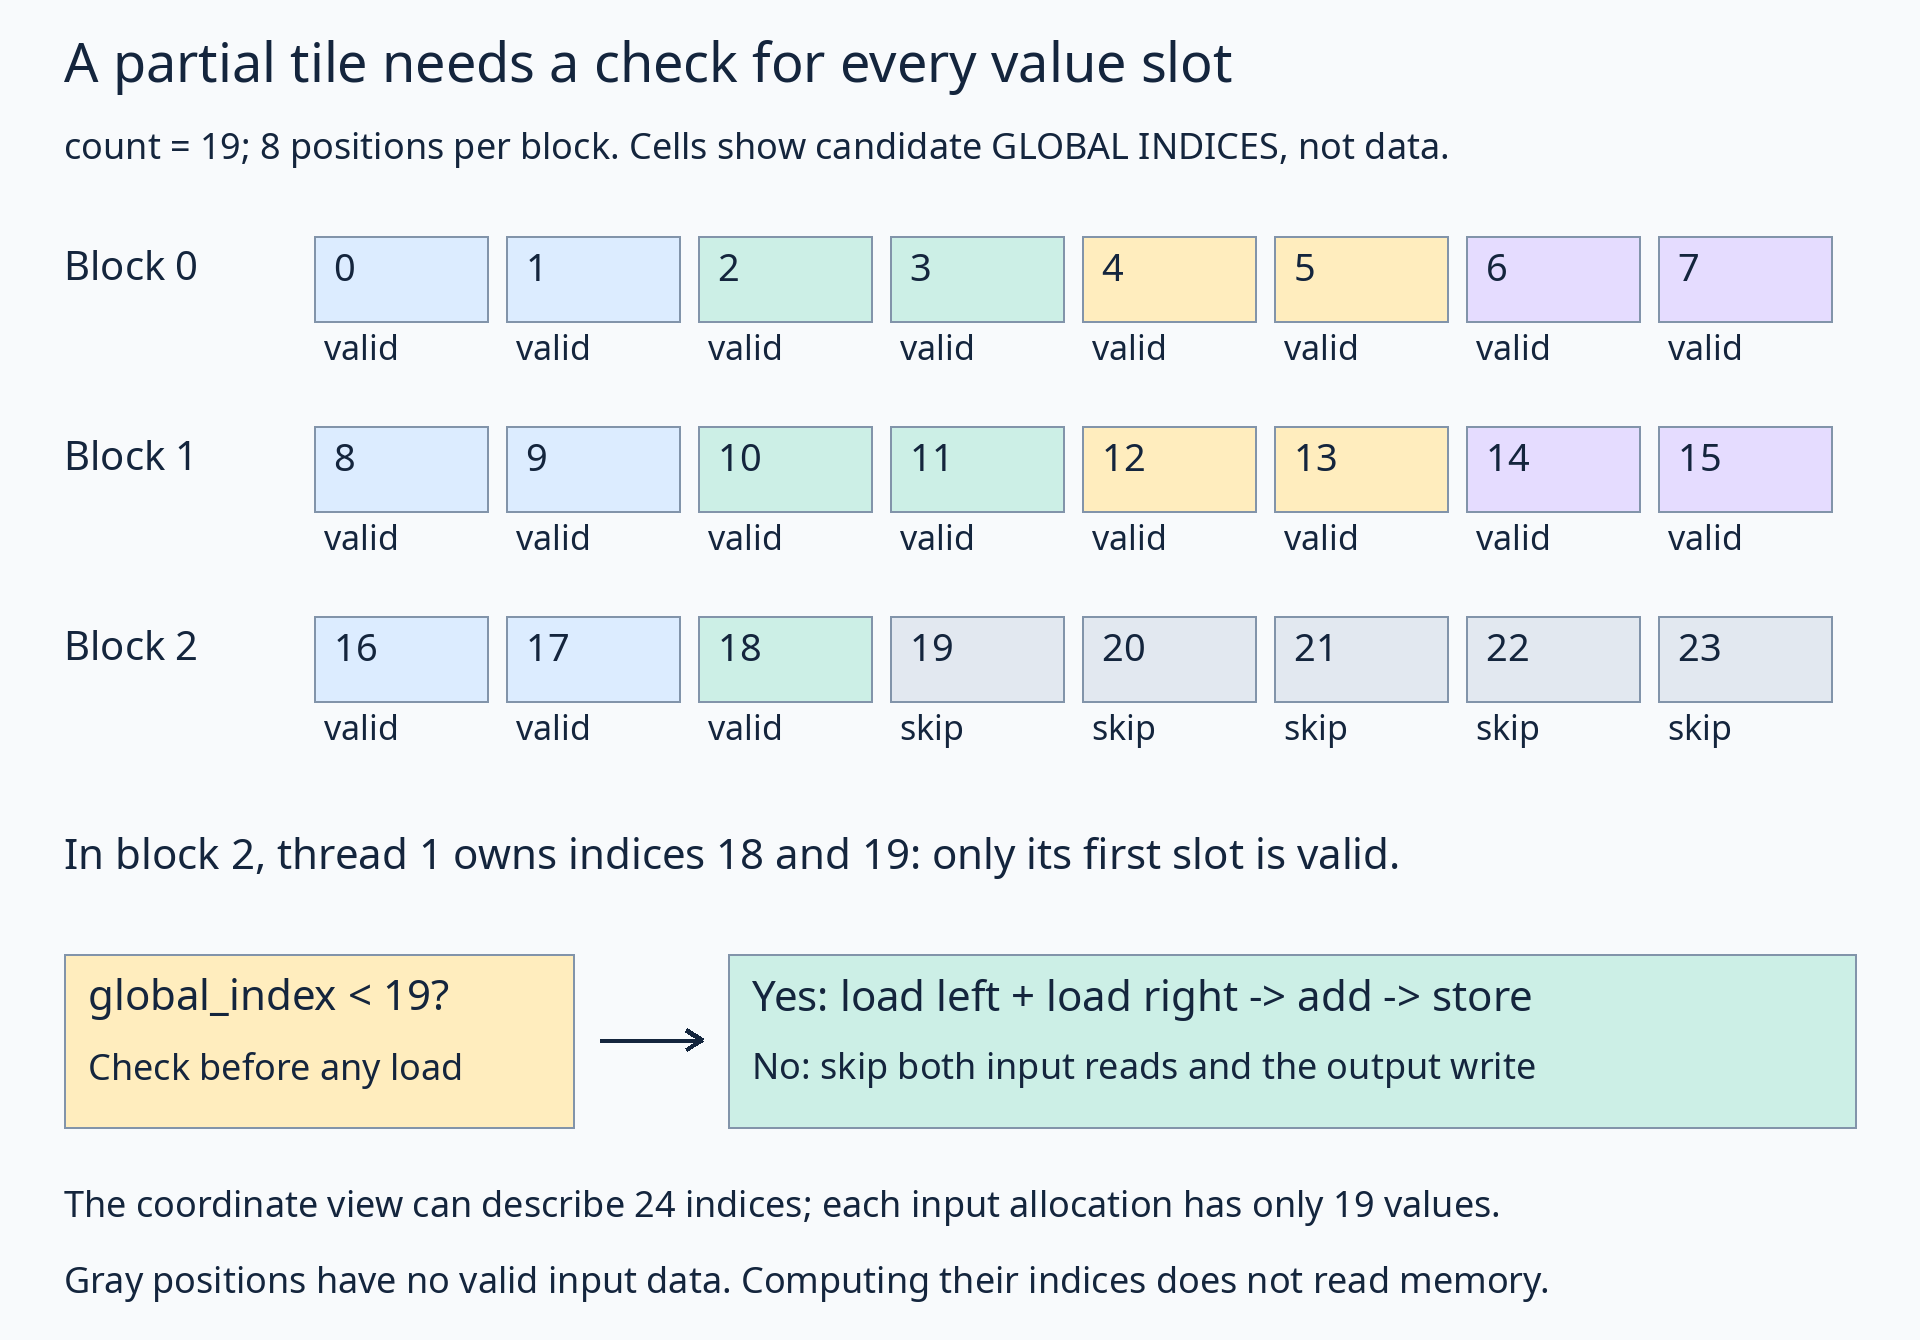
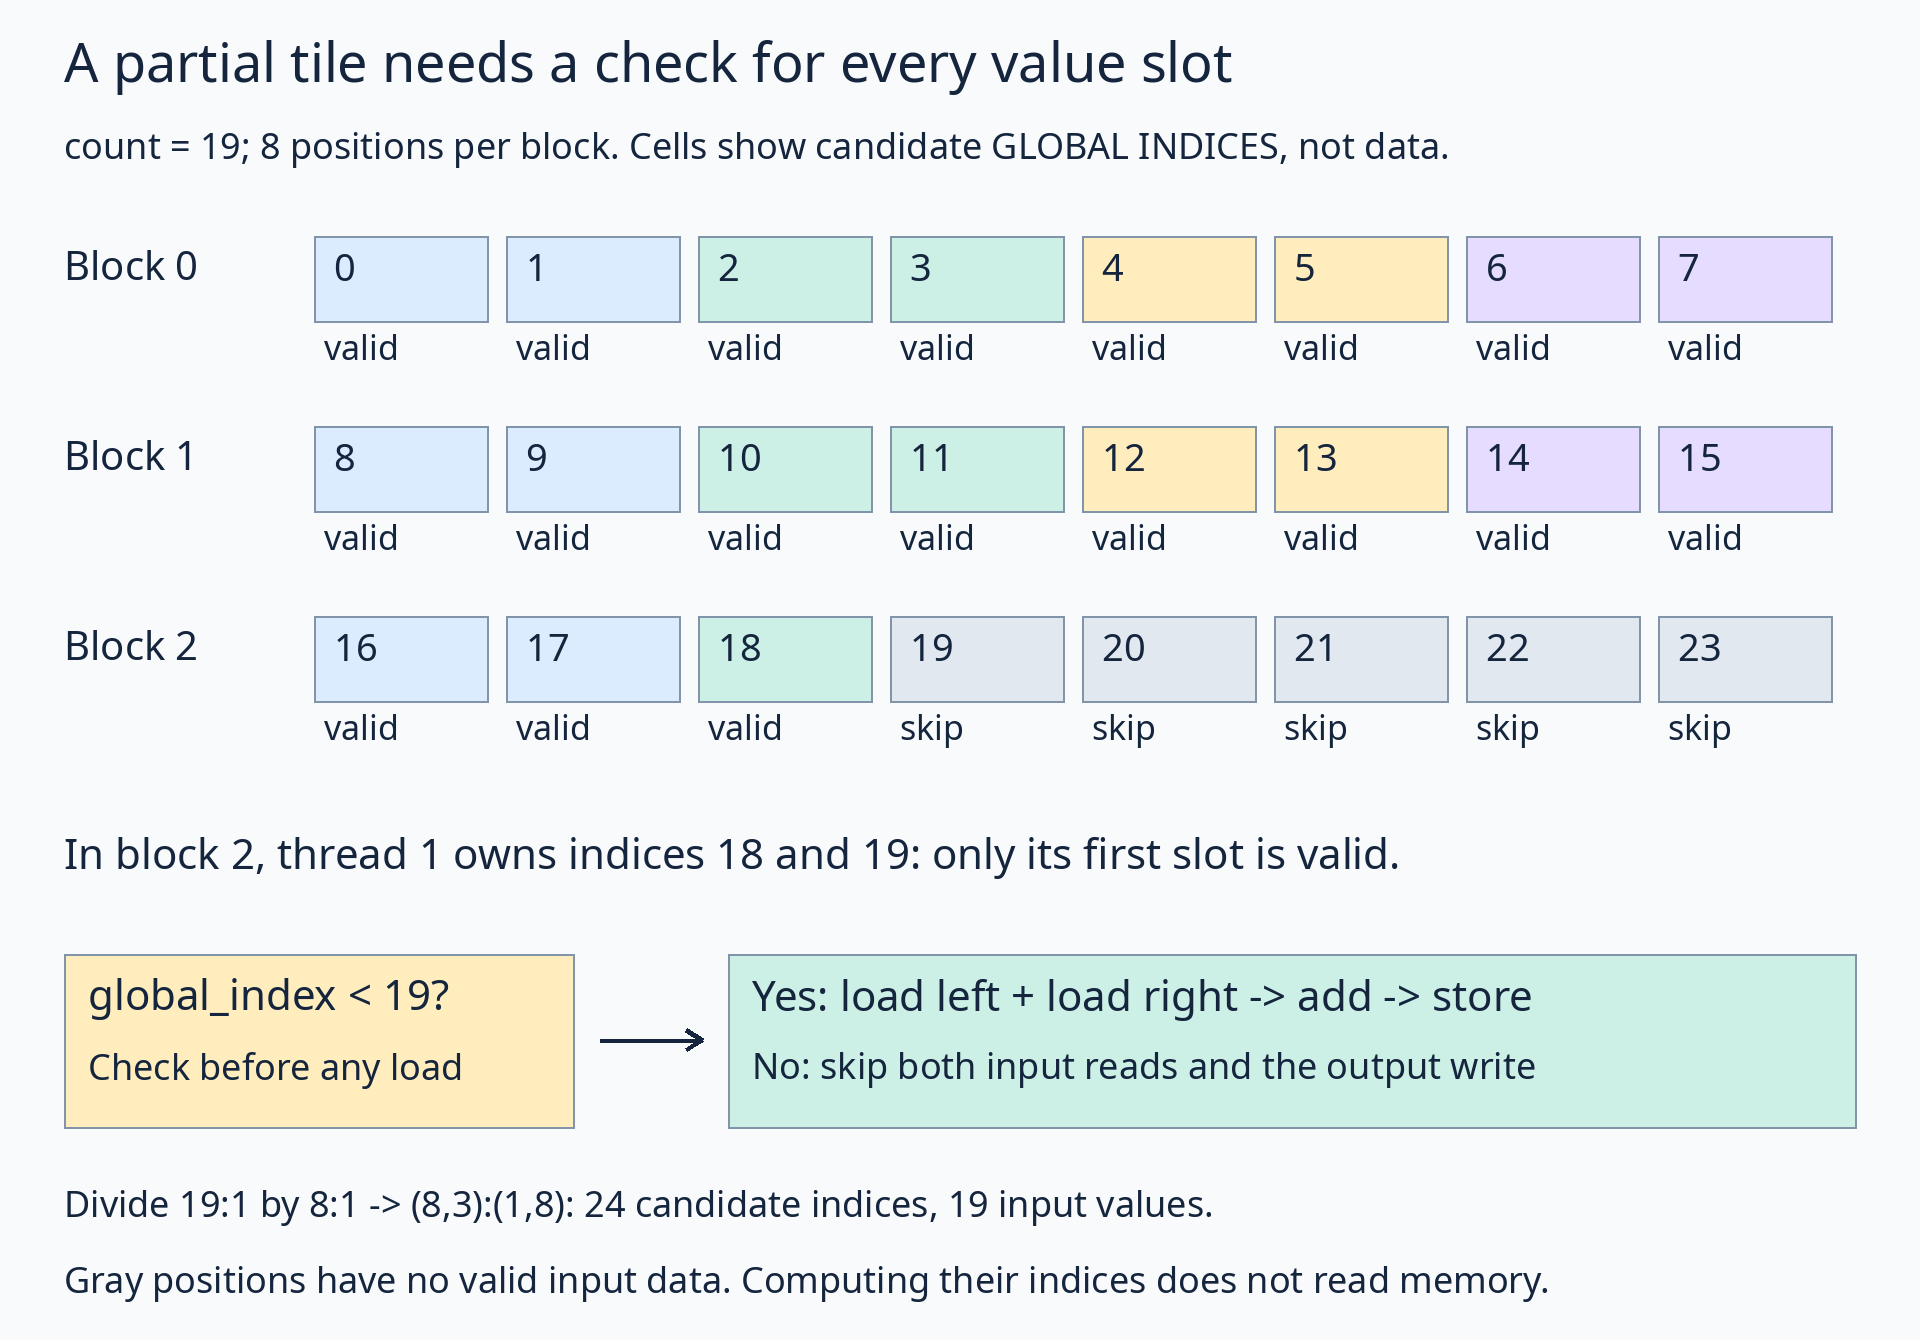
Simplify tail lesson with native FlyDSL tile division

Changed region(s): [[0.0312, 0.8873, 0.7812, 0.9179]]

diff --git a/lessons/01-gpu-programming/10-predicates-and-tails/practice.py b/lessons/01-gpu-programming/10-predicates-and-tails/practice.py
@@ -11,12 +11,11 @@ from flydsl._mlir.dialects import scf
 def exercise_kernel(
     left: fx.Tensor, right: fx.Tensor, out: fx.Tensor, count: fx.Constexpr
 ):
-    padded_count = ((count + 7) // 8) * 8
     # 1. Reuse left/right/out as memory views. Build a separate index-only view.
-    coordinate_layout = fx.make_layout(padded_count, 1)
+    coordinate_layout = fx.make_layout(count, 1)
     index_origin = fx.make_int_tuple(0)
     coordinates = fx.make_view(index_origin, coordinate_layout)
-    # 2. Expose coordinate windows and select this block's window.
+    # 2. Division rounds up to full coordinate windows; no data is padded.
     block_id = fx.block_idx.x
     coordinate_tiles = fx.logical_divide(coordinates, fx.make_layout(8, 1))
     block_coordinates = fx.slice(coordinate_tiles, (None, block_id))
@@ -43,21 +42,21 @@ def exercise_kernel(
 @flyc.jit
 def run(left: fx.Tensor, right: fx.Tensor, out: fx.Tensor, count: fx.Constexpr):
     exercise_kernel(left, right, out, count).launch(
-        grid=((count + 7) // 8, 1, 1), block=(4, 1, 1)
+        grid=(fx.ceildiv(count, 8), 1, 1), block=(4, 1, 1)
     )
 
 
 def solve():
-    for count in [19]:
-        left = torch.arange(count, dtype=torch.float32, device="cuda") * 0.25
-        right = torch.arange(count, dtype=torch.float32, device="cuda") * -0.5 + 3
-        # Inputs are exact-sized. Extra output storage checks for stray writes.
-        out = torch.full((count + 8,), -999.0, dtype=torch.float32, device="cuda")
-        run(left, right, out, count)
-        torch.cuda.synchronize()
-        torch.testing.assert_close(out[:count], left + right)
-        assert torch.all(out[count:] == -999).item(), "Wrote beyond the logical output"
-    return "passed sizes " + str([19])
+    count = 19
+    left = torch.arange(count, dtype=torch.float32, device="cuda") * 0.25
+    right = torch.arange(count, dtype=torch.float32, device="cuda") * -0.5 + 3
+    # Inputs are exact-sized. Extra output storage checks for stray writes.
+    out = torch.full((count + 8,), -999.0, dtype=torch.float32, device="cuda")
+    run(left, right, out, count)
+    torch.cuda.synchronize()
+    torch.testing.assert_close(out[:count], left + right)
+    assert torch.all(out[count:] == -999).item(), "Wrote beyond the logical output"
+    return "19 sums checked; 8 output sentinels unchanged"
 
 
 if __name__ == "__main__":

diff --git a/lessons/01-gpu-programming/10-predicates-and-tails/solution.py b/lessons/01-gpu-programming/10-predicates-and-tails/solution.py
@@ -11,12 +11,11 @@ from flydsl._mlir.dialects import scf
 def exercise_kernel(
     left: fx.Tensor, right: fx.Tensor, out: fx.Tensor, count: fx.Constexpr
 ):
-    padded_count = ((count + 7) // 8) * 8
     # 1. Reuse left/right/out as memory views. Build a separate index-only view.
-    coordinate_layout = fx.make_layout(padded_count, 1)
+    coordinate_layout = fx.make_layout(count, 1)
     index_origin = fx.make_int_tuple(0)
     coordinates = fx.make_view(index_origin, coordinate_layout)
-    # 2. Expose coordinate windows and select this block's window.
+    # 2. Division rounds up to full coordinate windows; no data is padded.
     block_id = fx.block_idx.x
     coordinate_tiles = fx.logical_divide(coordinates, fx.make_layout(8, 1))
     block_coordinates = fx.slice(coordinate_tiles, (None, block_id))
@@ -40,21 +39,21 @@ def exercise_kernel(
 @flyc.jit
 def run(left: fx.Tensor, right: fx.Tensor, out: fx.Tensor, count: fx.Constexpr):
     exercise_kernel(left, right, out, count).launch(
-        grid=((count + 7) // 8, 1, 1), block=(4, 1, 1)
+        grid=(fx.ceildiv(count, 8), 1, 1), block=(4, 1, 1)
     )
 
 
 def solve():
-    for count in [19]:
-        left = torch.arange(count, dtype=torch.float32, device="cuda") * 0.25
-        right = torch.arange(count, dtype=torch.float32, device="cuda") * -0.5 + 3
-        # Inputs are exact-sized. Extra output storage checks for stray writes.
-        out = torch.full((count + 8,), -999.0, dtype=torch.float32, device="cuda")
-        run(left, right, out, count)
-        torch.cuda.synchronize()
-        torch.testing.assert_close(out[:count], left + right)
-        assert torch.all(out[count:] == -999).item(), "Wrote beyond the logical output"
-    return "passed sizes " + str([19])
+    count = 19
+    left = torch.arange(count, dtype=torch.float32, device="cuda") * 0.25
+    right = torch.arange(count, dtype=torch.float32, device="cuda") * -0.5 + 3
+    # Inputs are exact-sized. Extra output storage checks for stray writes.
+    out = torch.full((count + 8,), -999.0, dtype=torch.float32, device="cuda")
+    run(left, right, out, count)
+    torch.cuda.synchronize()
+    torch.testing.assert_close(out[:count], left + right)
+    assert torch.all(out[count:] == -999).item(), "Wrote beyond the logical output"
+    return "19 sums checked; 8 output sentinels unchanged"
 
 
 if __name__ == "__main__":

diff --git a/tools/draw_lesson_visuals.py b/tools/draw_lesson_visuals.py
@@ -277,7 +277,7 @@ def tails():
     d.text(
         32,
         595,
-        "The coordinate view can describe 24 indices; each input allocation has only 19 values.",
+        "Divide 19:1 by 8:1 -> (8,3):(1,8): 24 candidate indices, 19 input values.",
         18,
     )
     d.text(

diff --git a/lessons/01-gpu-programming/10-predicates-and-tails/README.md b/lessons/01-gpu-programming/10-predicates-and-tails/README.md
@@ -14,19 +14,29 @@ The last row makes the boundary visible: thread 1 straddles it, so check each va
 4. Check whether each global index is valid.
 5. Inside that bounds branch, load the two input values, add them, and store the result.
 
-The coordinate view is only for deriving indices. Its padded shape does **not** enlarge either input allocation. Real reads and writes use the original memory views after the predicate succeeds. This avoids creating padded data views that could look safe to read unconditionally.
+The coordinate view is only for deriving indices. Start with the actual count of 19; division creates enough complete coordinate windows to cover it. This does **not** enlarge either input allocation. Real reads and writes use the original memory views after the predicate succeeds.
 
 ## Coordinates can be a tensor without an allocation
 
 ```python
-coordinate_layout = fx.make_layout(24, 1)
+coordinate_layout = fx.make_layout(count, 1)  # count = 19
 index_origin = fx.make_int_tuple(0)
 coordinates = fx.make_view(index_origin, coordinate_layout)
 coordinate_tiles = fx.logical_divide(coordinates, fx.make_layout(8, 1))
 block_coordinates = fx.slice(coordinate_tiles, (None, block_id))
 ```
 
-`coordinate_layout` describes indexing. `index_origin` is an integer iterator, not a memory pointer: it starts at zero. Indexing this coordinate view produces an index, rather than loading a float from memory. Its padded domain covers the launch: 24 positions. This makes it possible to ask which positions are valid without accessing either input allocation.
+`coordinate_layout` describes indexing. `index_origin` is an integer iterator, not a memory pointer: it starts at zero. Indexing this coordinate view produces an index, rather than loading a float from memory.
+
+For this contiguous 1-D layout, `logical_divide` rounds up the number of windows. Dividing `19:1` by `8:1` produces `(8,3):(1,8)`: eight local positions in each of three windows. The last window therefore describes candidate indices 16 through 23, while only 16 through 18 belong to the inputs. The extra positions come from the divided coordinate layout; there is no padded input buffer or separate `padded_count` calculation.
+
+The launcher uses native ceiling division to launch those three blocks:
+
+```python
+grid=(fx.ceildiv(count, 8), 1, 1), block=(4, 1, 1)
+```
+
+Ceiling division answers “how many blocks cover 19 elements?” The per-value predicate answers “which positions in those blocks contain data?”
 
 Use ownership `(4,2):(2,1)` to get each thread's local positions, then index `block_coordinates` to obtain their global indices.
 
@@ -57,7 +67,7 @@ Do not load first and only guard the store. An output allocation with spare capa
 
 ## Practice
 
-Fill `valid` with the bound comparison. Keep all memory accesses inside the supplied branch. The checker uses exact-sized input arrays and eight sentinel output elements after the logical result. It checks the 19 sums and verifies the sentinels are unchanged.
+Fill `valid` with the bound comparison. Keep all memory accesses inside the supplied branch. `solve()` runs one case, `count = 19`, using exact-sized input arrays and eight sentinel output elements after the logical result. It checks all 19 sums and verifies the sentinels are unchanged. The checkpoint is `19 sums checked; 8 output sentinels unchanged`.
 
 Sentinels detect invalid writes; they do not prove the absence of every invalid read. The code structure supplies that guarantee here: both loads are inside the same bounds branch. All valid positions have exactly one owner under the thread/value layout.
 
@@ -81,5 +91,7 @@ pixi run python lessons/01-gpu-programming/10-predicates-and-tails/solution.py
 ```
 
 In the starter exercise, an incomplete expression raises `Practice not finished` during tracing. Complete the TODOs, run the checker, then compare the [worked solution](solution.py). The supplied launch and checker define the example: the kernel performs the GPU work, while the host prepares buffers and validates the result.
+
+References: [FlyDSL divide operations](https://rocm.docs.amd.com/projects/FlyDSL/en/latest/layout_system_guide.html#divide-operations) and [native arithmetic, including `fx.ceildiv`](https://rocm.docs.amd.com/projects/FlyDSL/en/latest/kernel_authoring_guide.html#arithmetic-and-numeric-types). The nondivisible `19:1 / 8:1` mapping is checked against the pinned FlyDSL 0.4.1 implementation.
 
 [← Previous lesson](../09-register-fragments/README.md) · [Next lesson →](../11-vector-addition/README.md)

diff --git a/SOURCES.md b/SOURCES.md
@@ -27,8 +27,10 @@ Migrated and validated on 2026-10-29 using the installed **FlyDSL 0.4.1** source
 
 The visual lesson expansion was rechecked on 2026-10-30 with `pixi run gpu-check`: all 17 solutions and the additional mapping/view checks passed with FlyDSL 0.4.1 on AMD Radeon 860M Graphics (`gfx1152`). Diagram sources are kept in `tools/`, with SVGs embedded in lessons and PNG previews alongside them.
 
+Lesson 10's tail handling was simplified and revalidated on 2026-10-30 against the [FlyDSL divide operations guide](https://rocm.docs.amd.com/projects/FlyDSL/en/latest/layout_system_guide.html#divide-operations), [native arithmetic guide](https://rocm.docs.amd.com/projects/FlyDSL/en/latest/kernel_authoring_guide.html#arithmetic-and-numeric-types), and installed FlyDSL 0.4.1. Native `logical_divide` maps the contiguous `19:1` coordinate layout to `(8,3):(1,8)` with an `8:1` tiler, so no manual coordinate padding is needed. `fx.ceildiv(19, 8)` sets the three-block launch. The solution and a completed temporary practice copy checked all 19 sums and eight untouched output sentinels; the temporary copy also asserted the divided shape and strides. The unfinished starter reported its intended message. The full `pixi run gpu-check`, targeted Ruff, documentation/local link checks, and diagram preview inspection passed.
+
 Static algebra may be evaluated during compilation. These checks establish the tested mappings and view accesses, not a general performance guarantee. The vector-add lesson covers counts 1, 7, 8, 9, 19, 32, 257, and 4099. Lesson 12 provides event timings and generated-code inspection; bandwidth is workload-specific.
 
 ## Deliberate limits
 
-The lessons use static positive shapes, nonnegative integer strides, and regular evenly dividing tiles. Swizzles, basis-valued strides, dynamic shape constraints, general complement construction, and the full composition divisibility algorithm are later topics. Passing these examples does not establish support for arbitrary layouts or tilers.
+The lessons use static positive shapes, nonnegative integer strides, and regular tiles. Most layout examples divide evenly; lesson 10 also checks native division of a contiguous 19-element coordinate layout into eight-position windows. Swizzles, basis-valued strides, dynamic shape constraints, general complement construction, and the full composition divisibility algorithm are later topics. Passing these examples does not establish support for arbitrary layouts or tilers.

diff --git a/CHEATSHEET.md b/CHEATSHEET.md
@@ -12,6 +12,7 @@
 | Coverage | Application choice, not required for composition | B can select a subset of A |
 | Coalesce | Preserve scalar-coordinate offset sequence | `(2,4):(1,2)` → `8:1` |
 | Logical divide | Expose within-tile and tile-number modes | `16:1 / 4:1` → `(4,4):(1,4)` |
+| Partial 1-D tile | Divide rounds up; predicate guards data accesses | `19:1 / 8:1` → `(8,3):(1,8)`; valid if index < 19 |
 | Slice | Fix a coordinate; keep `None` modes | `(None,2)` selects tile 2 |
 
 ## Three calculations to remember
